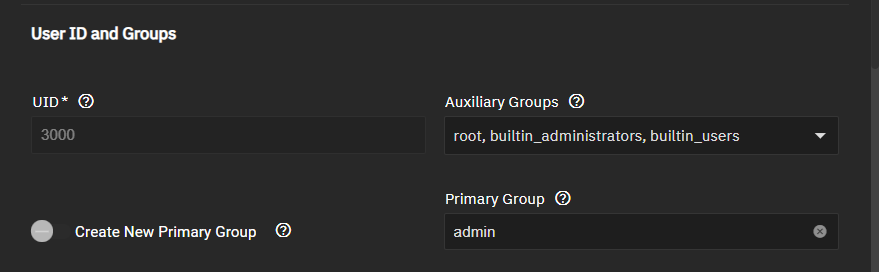
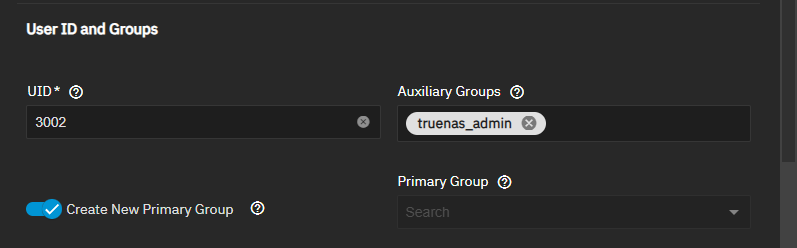
PD-1290 Update Admin User to Truenas_Admin
This PR updates article and snippet content containing instructions referring to the admin user account changing it to truenas_admin.
Update the installer screenshots to reflect changes in screens in articles and snippets.
This change applies to 24.10 only. Updated mentions of clean install and UI upgrade scenarios where the admin user name is retained.

diff --git a/content/SCALE/GettingStarted/Configure/FirstTimeLogin.md b/content/SCALE/GettingStarted/Configure/FirstTimeLogin.md
@@ -60,16 +60,13 @@ Based on the method used to install SCALE, you can be presented with different f
 {{< expand "Clean Installing SCALE" "v" >}}
 When installing SCALE from an <file>iso</file> file, and based on the authentication method selected in step 4 of the SCALE [TrueNAS installer]({{< relref "InstallingScale.md#using-the-truenas-installer" >}}) process, you can see a different sign-in screen for the web UI and need to use different login credentials.
 
-* Selecting **1. Administrative user (admin)** opens the standard SCALE sign-in screen where you enter the new admin username and password created during installation.
+* Selecting **1. Administrative user (truenas_admin)** opens the standard SCALE sign-in screen where you enter the new **truenas_admin** username and password created during installation.
   The root user password is disabled by default. We recommend this option, as it creates the required administrative user and disables the root user password, and which brings the system into compliance with FIPS security hardening standards.
 
-  The root user still exists but with the password disabled by default, which means only the admin user can log into the system.
+  The root user still exists but with the password disabled by default, which means only the truenas_admin user can log into the system.
   You can activate the password for the root user for some limited uses, but you should return to a security-hardened operation by disabling the root password immediately after you finish with the limited use.
 
-* Selecting **2. Root user (not recommended)** opens the standard SCALE sign-in screen where you enter the root username and the root password created during installation.
-  {{< include file="/static/includes/CreateAdminDisableRoot.md" >}}
-
-* Selecting **3. Configure using Web UI** opens a SCALE sign-in screen with two options. Select the option to either create the admin or root user and password.
+* Selecting **2. Configure using Web UI** opens a SCALE sign-in screen with two options. Select the option to either create the admin or root user and password.
 
   If creating and logging in as the admin user, after logging in you must immediately disable the root user password to comply with FIPS security hardening standards.
   
@@ -103,8 +100,8 @@ If using the CORE **Update** UI option, log into SCALE with the CORE root user c
 {{< include file="/static/includes/CreateAdminDisableRoot.md" >}}
 {{< /expand >}}
 
-### Logging In as Admin
-After setting up the admin user from one of the scenarios documented above, enter **admin** and the password to log into SCALE.
+### Logging In as Truenas_Admin
+After setting up the truenas_admin user from one of the scenarios documented above, enter **truenas_admin** and the password to log into SCALE.
 
 {{< trueimage src="/images/SCALE/Login/LoginScreenSCALE.png" alt="TrueNAS SCALE Login Screen" id="TrueNAS SCALE Login Screen" >}}
 
@@ -115,11 +112,11 @@ For more information, see [Managing Users]({{< relref "ManageLocalUsersScale.md"
 If logging in with the root user credentials, enter root as the user and the root password.
 {{< include file="/static/includes/CreateAdminDisableRoot.md" >}}
 
-Follow the directions in [Managing Users]({{< relref "ManageLocalUsersScale.md" >}}) to create an admin user with all required settings.
+Follow the directions in [Managing Users]({{< relref "ManageLocalUsersScale.md" >}}) to create an administration user with all required settings.
 For environments requiring specific configurations, such as non-AD environments or those using LDAP, ensure that your admin user is properly set up to manage all aspects of the system.
 
 ### Creating an Administrator Account at First Log in
-If you selected the SCALE installation option **3. Configure using Web UI**, the sign-in screen shows two authentication methods.
+If you selected the SCALE installation option **2. Configure using Web UI**, the sign-in screen shows two authentication methods.
 One allows you to log in as root or you can create the administration account.
 
 {{< trueimage src="/images/SCALE/Login/FirstTimeLoginInstallOpt3SCALE.png" alt="SCALE Login Set Up Authentication Method" id="SCALE Login Set Up Authentication Method" >}}
@@ -132,7 +129,7 @@ After setting up the admin user, click on the root user and then click **Edit**.
 This brings the system into compliance with FIPS system security-hardening standards.
 
 ### Troubleshooting Accessing the Web UI
-If you cannot remember the administrator password to log in to the web interface, connect a keyboard and mouse to the TrueNAS system and open the [Console Setup menu]({{< relref "ConsoleSetupMenuScale.md#changing-the-root-password" >}}) to reset the admin account password.
+If you cannot remember the administrator password to log in to the web interface, connect a keyboard and mouse to the TrueNAS system and open the [Console Setup menu]({{< relref "ConsoleSetupMenuScale.md#changing-the-root-password" >}}) to reset the administrator account password.
 
 {{< expand "UI is not accessible by IP address" "V" >}}
 If the user interface is not accessible by IP address from a browser, check the following:

diff --git a/content/SCALE/SCALETutorials/Credentials/AdminRoles.md b/content/SCALE/SCALETutorials/Credentials/AdminRoles.md
@@ -13,38 +13,42 @@ keywords:
 - FIPS compliance
 ---
 
-The initial implementation of the TrueNAS SCALE administrator login permitted users to continue using the root user but encouraged users to create a local administrator account when first [installing SCALE]({{< relref "InstallingSCALE.md" >}}).
+The initial implementation of the TrueNAS SCALE administrator login permitted users to continue using the root user but encouraged users to create an administrator account when first [installing SCALE]({{< relref "InstallingSCALE.md" >}}).
 
 {{< include file="/static/includes/RootLoginWarnSCALE.md" >}}
 
-SCALE has implemented administrator roles and privileges that allow greater control over access to functions in SCALE and to further utilize FIPS-compliance.
+The SCALE administrator account name changes from **admin** to **trunase_admin** in 24.10 when fresh installing from an <file>iso</file> file.
+Earlier releases of SCALE with the **admin** account retain this account when upgrading to 24.10 through the UI.
+
+Administrator accounts have roles and privileges that allow greater control over access to functions in SCALE and to further utilize FIPS-compliance.
 SCALE includes three predefined admin user account levels:
 
-* Full Admin - This is the local administrator account created by the system when doing a clean install using an <file>iso</file> file or by manually creating when logged in as the root user account after upgrading or migrating from CORE or a pre-22.12.3 release of SCALE.
+* Full Admin - Assigned to the local administrator account created by the system when clean installing SCALE using an <file>iso</file> file.
+  Also assigned when manually creating an admin user if logged in as the root user account after upgrading from a pre-22.12.3 release of SCALE or migrating from CORE to SCALE.
 
-* Sharing Admin - This is assigned to users responsible for only managing shares (SMB, NFS, iSCSI).
+* Sharing Admin - Assigned to users responsible for only managing shares (SMB, NFS, iSCSI).
   This user can create shares and the datasets for shares, start/restart the share service, and modify the ACL for the share dataset.
 
-* Read-only Admin - This is assigned to users that can monitor the system but not make changes to settings.
+* Readonly Admin - Assigned to users that can monitor the system but not make changes to settings.
 
 ##  About Admin and Root Logins and Passwords
 At present, SCALE has both the root and local administrator user logins and passwords.
 
 {{< include file="/static/includes/RootToAdminUserAccount.md" >}}
 
-All systems should [create the local administrator account]({{< relref "ManageLocalUsersSCALE.md" >}}) and use this account for web interface access.
-When properly set up, the local administrator (full admin) account performs the same functions and has the same access as the root user.
+All systems should [create an administrator account]({{< relref "ManageLocalUsersSCALE.md" >}}) with the full admin role and privileges, and use this account for web interface access.
+When properly set up, the administrator (full admin) account performs the same functions and has the same access as the root user.
 
 {{< hint type="note" title="References to Root Account" >}}
 Some UI screens and settings still refer to the root account, but these references are updating to the administrator account in future releases of SCALE.
 {{< /hint >}}
 
-To improve system security after the local administrator account is created, disable the root account password to restrict root access to the system.
+To improve system security after the administrator account is created, disable the root account password to restrict root access to the system.
 
 For more information on the different administrator scenarios users can encounter, read [Logging Into SCALE the First Time]({{< relref "FirstTimeLogin.md" >}}).
 
 ### Disabling Root and Admin User Passwords
-As a security measure, the root user is no longer the default account and the password is disabled when you create the admin user during installation.
+As a security measure, the root user is no longer the default account and the password is disabled when you create the truenas_admin or admin user during installation.
 
 Do not disable the admin account and root passwords at the same time.
 If both root and admin account passwords become disabled at the same time and the web interface session times out, a one-time sign-in screen allows access to the system.

diff --git a/static/includes/AddAdminUserAccount.md b/static/includes/AddAdminUserAccount.md
@@ -1,36 +1,37 @@
 &NewLine;
 
-All CORE systems migrating to SCALE, and all Angelfish and early Bluefin releases of SCALE upgrading to 22.12.3+ or to later SCALE major versions should create and begin using an admin user instead of the root user. 
-After migrating or upgrading from CORE or a pre-SCALE 22.12.3 release to a later SCALE release, use this procedure to create the Local Administrator user.
+All CORE systems migrating to SCALE, and all early SCALE releases such as Angelfish and pre-22.12.3 Bluefin, that migrate or upgrade to later SCALE major versions must create and begin using an admin user instead of the root user.
+After migrating or upgrading from CORE or a pre-SCALE 22.12.3 releases to a later SCALE release, use this procedure to create the administrator user.
 
 Go to **Credentials > Local Users** and click **Add**.
 
-Enter the name to use for the administrator account. For example, *admin*.
-You can create multiple admin users with any name and assign each different administration privileges.
+Enter the name to use for the administrator account. For example, **truenas_admin**, **admin**, etc.
+You can create multiple admin users with any name and assign each different administration roles and privileges.
 
 Enter and confirm the admin user password.
 
-Select **builtin_administrators** on the **Auxiliary Group** dropdown list.
+Select **truenas_admin** on the **Auxiliary Group** dropdown list.
 
 {{< trueimage src="/images/SCALE/Credentials/AddAuxiliaryGroupAdminUserSettings.png" alt="Add Admin User Auxiliary Groups" id="Add Admin User Auxiliary Groups" >}}
 
 Add the home directory for the new admin user. 
-Enter or browse to select the location where SCALE creates the home directory. For example, */mnt/tank*. If you created a dataset to use for home directories, select that dataset.
+Enter or browse to select the location where SCALE creates the home directory.
+For example, */mnt/tank*. If you created a dataset to use for home directories, select that dataset.
 Select the **Read**, **Write**, and **Execute** permissions for **User**, **Group**, and **Other** this user should have, then select **Create Home Directory**.
 
 Select the shell for this admin user from the **Shell** dropdown list.
-Options are **nologin**, **TrueNAS CLI**, **TrueNAS Console**, **sh**, **bash**, **rbash**, **dash**, **tmux**, and **zsh**.
+We recommend setting shell to **TrueNAS Console** as this provides access to the Console Setup menu and the Linux shell from the SCALE **Shell** screen.
 
-Select the sudo authorization permissions for this admin user.
+Select the sudo authorization permissions for the truenas_admin user.
 Some applications, such as [Nextcloud]({{< relref "InstallNextCloudMedia.md" >}}), require sudo permissions for the administrator account.
 For administrator accounts generated during the initial installation process, TrueNAS SCALE sets authorization to **Allow all sudo commands**.
 
 Click **Save**.
 The system adds the user to the **builtin-users** group after clicking **Save**.
 
-Log out of the TrueNAS system and then log back in using the admin user credentials to verify that the admin user credentials work properly with your network configuration.
+Log out of the TrueNAS system and then log back in using the **truenas_admin** (or the name of the administrator created) user credentials to verify that the admin user credentials work properly with your network configuration.
 
-After adding the admin user account, disable the root user password:
+After adding the admin user account, disable the root user password.
 
 Go to **Credentials > Local Users**, click on the **root** user, and select **Edit**.
 Click the **Disable Password** toggle to disable the password, then click **Save**.

diff --git a/static/includes/SCALEInstallerProcedure.md b/static/includes/SCALEInstallerProcedure.md
@@ -13,23 +13,22 @@
 
    {{< trueimage src="/images/SCALE/Install/SCALEInstallWarningScreen.png" alt="Install Warning Screen" id="Install Warning Screen" >}}
 
-3. Select option **1 Administrative user (admin)** then **OK** to install SCALE and create the admin user account and password.
-   SCALE has implemented the administrator login as a replacement for the root user login as a security hardening measure.
+3. Select option **1 Administrative user (truenas_admin)** then **OK** to install SCALE and create the **truenas_admin** user account and password.
+   SCALE has implemented an administrator login as a replacement for the root user login as a security hardening measure.
    The system retains root as a fallback, but it is no longer the default.
-   The admin account has full control over TrueNAS and is used to log in to the web interface.
+   The *truenas_admin* account has full control over TrueNAS and is used to log in to the web interface.
+   
    Set a strong password and protect it.
 
-   {{< trueimage src="/images/SCALE/Install/SCALEInstallerConsoleSetupAdminAccount.png" alt="Authentication Method Screen" id="Authentication Method Screen" >}}
+   {{< trueimage src="/images/SCALE/Install/SCALEInstallerAuthenticationMethod.png" alt="Authentication Method Screen" id="Authentication Method Screen" >}}
 
-   Next, enter a password for the new admin user.
+   Next, enter a password for the new **truenas_admin** user.
 
    {{< trueimage src="/images/SCALE/Install/SCALEInstallerConsoleSetupAdminPassword.png" alt="Admin Password Screen" id="Admin Password Screen" >}}
 
-4. (Optional) Select **Yes** and press <kbd>Enter</kbd>.
-   When the operating system device has enough additional space, you can choose to allocate some space for a swap partition to improve performance.
-
-   {{< trueimage src="/images/SCALE/Install/SCALEInstallPartitionScreen.png" alt="Swap Screen" id="Swap Screen" >}}
-
-5. Select **Yes** at the **Legacy Boot** prompt to allow the system to boot via UEFI, or select **No** if your system hardware requires legacy BIOS boot. Press <kbd>Enter</kbd> to begin the installation.
+4. Select **Yes** at the **Legacy Boot** prompt to allow the system to boot via UEFI, or select **No** if your system hardware requires legacy BIOS boot.
+   Press <kbd>Enter</kbd> to begin the installation.
 
    {{< trueimage src="/images/SCALE/Install/SCALEInstallLegacyBoot.png" alt="Legacy Boot Screen" id="Legacy Boot Screen" >}}
+
+5. Select **OK** when the **Installation Succeeded** screen shows and press <kbd>Enter</kbd> to exit from the installer.

diff --git a/content/SCALE/GettingStarted/Install/ConsoleSetupMenuScale.md b/content/SCALE/GettingStarted/Install/ConsoleSetupMenuScale.md
@@ -47,7 +47,7 @@ For network configuration options **1**, **2**, and **3**, we recommend using th
 * **4) Change local administrator password**
   
   Use to change the administrator user password.
-  If you selected option 1 on the iso installer menu, you have already configured the admin user and password.
+  If you selected option 1 on the iso installer menu, you have already configured the **truenas_admin** user and password.
   You can use this to change the admin password before you log into the SCALE UI.
   {{< hint type=note >}}
   This is not the password for the root user in the CLI or the root user login password for the web UI.
@@ -140,13 +140,16 @@ Home users have a few options to allow Internet access using TrueNAS SCALE:
 
 ## Changing the Administrator Password
 SCALE has implemented administrator account logins as replacements for the root user.
-The Local Administrator user account is the default account, and the root password is now disabled by default.
-If you migrate from CORE to SCALE and need to upload the CORE system configuration file, the root user password is not disabled but you must recreate the admin user account and disable the root password to comply with FIPS-compliance standards and security hardening practices.
+The truenas_admin user account is the default account, and the root password is now disabled by default.
+If you migrate from CORE to SCALE and need to upload the CORE system configuration file, the root user password is not disabled but you must recreate the truenas_admin (or an admin) user account and disable the root password to comply with FIPS-compliance standards and security hardening practices.
 
+Existing SCALE systems migrating from earlier SCALE release with the **admin** user retain this administrator account.
+Only a clean install using a SCALE 24.10 <file>iso</file> creates the **truenas_admin** administrator account.
+Both the earlier **admin** and new **truenas_admin** accounts have the same permissions and privileges.
 You can change the admin user password in the UI or from the Console Setup menu.
 You can set and enable the root user password in the UI, but for security hardening, we recommend leaving it disabled.
 
-Changing the admin user (or root if you have not created the admin user) password disables 2FA (Two-Factor Authentication).
+Changing an admin user (or root if you have not created the admin user) password disables 2FA (Two-Factor Authentication).
 
 {{< hint type=important >}}
 Disabling a password in the UI prevents the user from logging in with it.

diff --git a/content/SCALE/SCALETutorials/Credentials/ManageLocalUsersSCALE.md b/content/SCALE/SCALETutorials/Credentials/ManageLocalUsersSCALE.md
@@ -29,7 +29,7 @@ TrueNAS hides all built-in users (except root) by default. Click the toggle **Sh
 
 {{<include file="/static/includes/addcolumnorganizer.md">}}
 
-## Creating an Admin User Account
+## Creating an Administrator User Account
 
 {{< include file="/static/includes/AddAdminUserAccount.md" >}}
 
@@ -81,7 +81,7 @@ When creating a user, the home directory path is set to <file>/var/empty</file>,
 To add a home directory, enter or browse to a path in **Home Directory**, then select **Create Home Directory**.
 
 {{< hint type="important" title="Home Directory Known Impacts" >}}
-SCALE 24.04 changes the user home directory location from **/nonexistent**, a directory that should never exist, to **/var/empty**.
+SCALE 24.04 changed the user home directory location from **/nonexistent**, a directory that should never exist, to **/var/empty**.
 This new directory is an immutable directory shared by service accounts and accounts that should not have a full home directory.
 Services impacted:
 
@@ -115,7 +115,7 @@ Do *not* paste the private key.
 
 Always keep a backup of an SSH public key if you are using one.
 
-As of SCALE 24.04, users assigned to the **trueNAS_readonly_administrators** group cannot access the **Shell** screen.
+As of SCALE 24.04, the **Shell** setting defaults to **nologin** for users assigned to the **trueNAS_readonly_administrators** and **truenas_sharing_administrator** groups which means they cannot access the **Shell** screen.
 
 Select the [shell]({{< relref "LocalUsersScreensSCALE.md" >}}) option for the admin user from the **Shell** dropdown list.
 Options are **nologin**, **TrueNAS CLI**, **TrueNAS Console**, **sh**, **bash**, **rbash**, **dash**, **tmux**, and **zsh**.
@@ -132,7 +132,7 @@ Enter each command as an absolute path to the ELF (Executable and Linkable Forma
 <file>/usr/bin/</file> is the default location for commands.
 Select **Allow all sudo commands** or **Allow all sudo commands with no password**.
 
-Leave **Samba Authentication** selected to allow using the account credentials to access data shared with [SMB]({{< relref "/SCALE/SCALEUIReference/Shares/_index.md" >}}).
+Leave **SMB User** selected to allow using the account credentials to access data shared with [SMB]({{< relref "/SCALE/SCALEUIReference/Shares/_index.md" >}}).
 
 Click **Save**.
 

diff --git a/static/includes/RootToAdminUserAccount.md b/static/includes/RootToAdminUserAccount.md
@@ -3,13 +3,13 @@
 {{< hint type=important title="SCALE Administrator Accounts" >}}
 Root is the default system administration account for CORE, SCALE Angelfish, and early Bluefin releases.
 
-Users migrating from CORE to SCALE or from pre 22.12.3 releases must manually create an admin user account.
-Only fresh installations using an <file>iso</file> file provide the option to create the admin user during the installation process.
+Users migrating from CORE to SCALE or upgrading from SCALE pre 22.12.3 releases must manually create an administration user account.
+Only fresh installations using an <file>iso</file> file provide the option to create the **truenas_admin** user during the installation process.
 
 SCALE systems with only the **root** user account can log in to the TrueNAS web interface as the root user.
-After logging in as root, TrueNAS alerts you to create the local administrator account.
+After logging in as root, TrueNAS alerts you to create the administrator account.
 
-System administrators should create and begin using the admin login, and then disable the root user password.
+System administrators should create and begin using the truenas_admin login, and then disable the root user password.
 
 SCALE 24.04 (Dragonfish) introduces administrators privileges and role-based administrator accounts.
 The root or local administrator user can create new administrators with limited privileges based on their needs.

diff --git a/static/includes/RootLoginWarnSCALE.md b/static/includes/RootLoginWarnSCALE.md
@@ -3,7 +3,7 @@
 {{< hint type=important title="Root Login Deprecated" >}}
 
 Starting with SCALE Bluefin 22.12.0, root account logins are deprecated for security hardening and to comply with Federal Information Processing Standards (FIPS).
-All TrueNAS users should [create a local administrator account]({{< relref "/SCALE/SCALETutorials/Credentials/ManageLocalUsersSCALE.md" >}}) with all required permissions and begin using it to access TrueNAS.
+All TrueNAS users should [create an administrator account]({{< relref "/SCALE/SCALETutorials/Credentials/ManageLocalUsersSCALE.md" >}}) with all required permissions and begin using it to access TrueNAS.
 When the root user password is disabled, only an administrative user account can log in to the TrueNAS web interface.
 
 TrueNAS SCALE plans to permanently disable *root* account access in a future release.

diff --git a/content/SCALE/GettingStarted/Migrate/MigratingFromCORE.md b/content/SCALE/GettingStarted/Migrate/MigratingFromCORE.md
@@ -82,7 +82,7 @@ If this process fails, retry using the iso file method above.
    ![SCALESidegradeReboot](/images/SCALE/SystemSettings/SidegradeRestart.png  "Reboot to Finish")
 
 After TrueNAS SCALE reboots, sign in with the root user credentials used in CORE.
-Uploading the CORE config file deletes the admin user account created during a clean install and therefore requires you to [recreate it](#recreating-the-admin-user-account).
+Uploading the CORE config file deletes the **truenas_admn** user account created during a clean install and therefore requires you to [recreate it](#recreating-the-admin-user-account).
 
 After gaining access to the UI, you might need to [use the Shell to configure the primary networking interfaces]({{< relref "ConsoleSetupMenuScale.md" >}}) to enable GUI accessibility.
 
